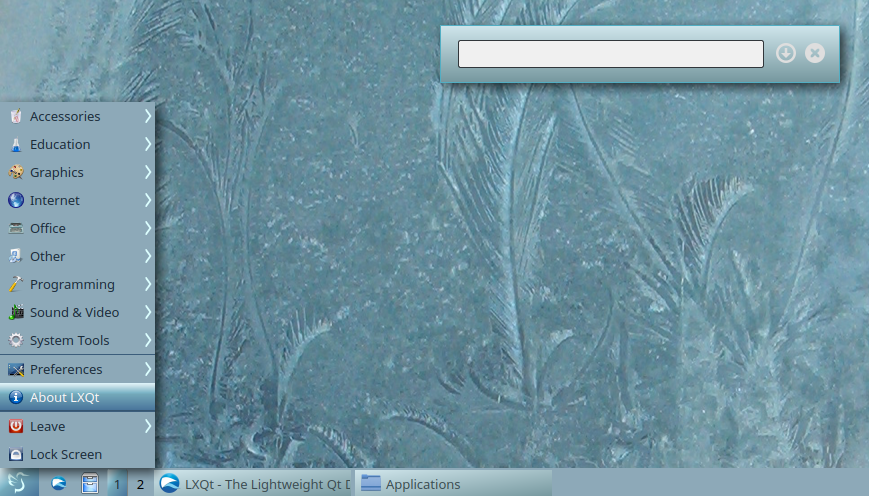
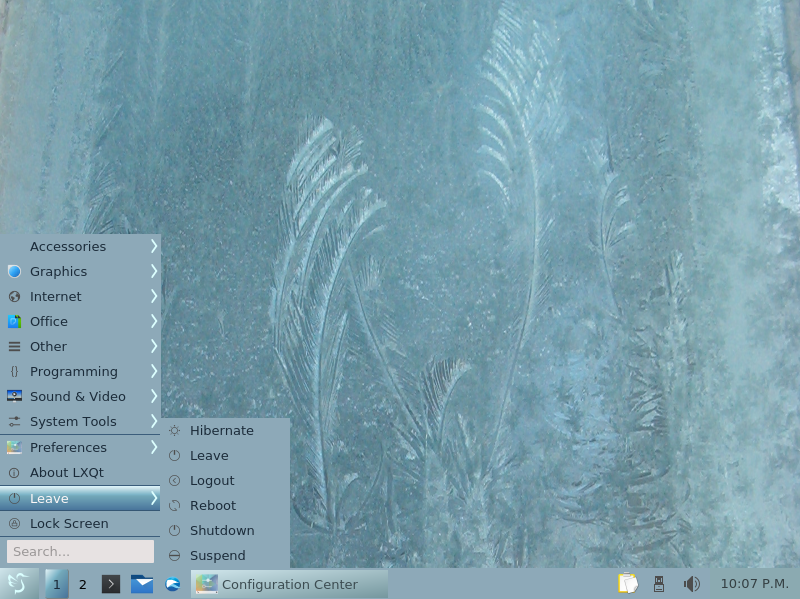
updated screens, added install script

diff --git a/README.md b/README.md
@@ -11,5 +11,6 @@ Themes for the LXQt Desktop
 * [Blue icy theme](https://github.com/stefonarch/ice)
 
 
-
 Copy theme folders to /usr/share/lxqt/themes for system wide use or to ~/.local/share/lxqt/themes for single user'.
+
+To install all the themes run ./install_all.sh with root privileges.
